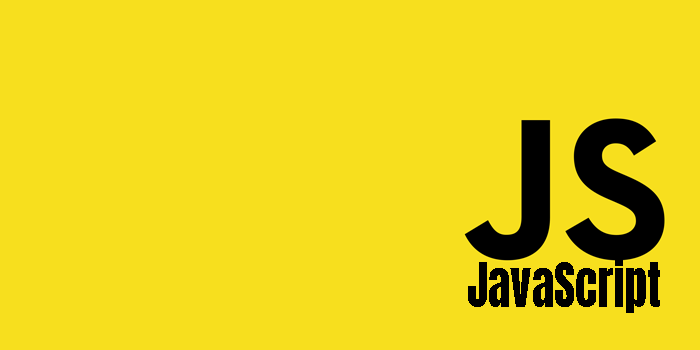
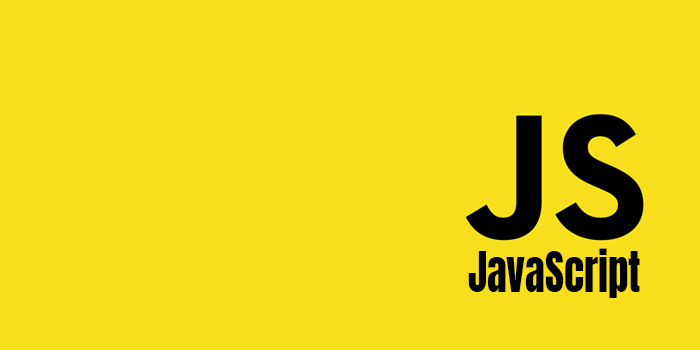
JS 썸네일 추가

Changed region(s): [[0.66, 0.3143, 0.96, 0.8857]]

diff --git a/_posts/JavaScript/2021-09-16-JavaScript02.md b/_posts/JavaScript/2021-09-16-JavaScript02.md
@@ -4,7 +4,7 @@ author: Jinsol
 categories: Javascript
 tags: JavaScript
 date: "2021-09-15"
-image: 
+image: /assets/img/JS.png
 ---
 
 <br>

diff --git a/_posts/JavaScript/2021-09-21-JavaScript03.md b/_posts/JavaScript/2021-09-21-JavaScript03.md
@@ -4,7 +4,7 @@ author: Jinsol
 categories: Javascript
 tags: JavaScript
 date: "2021-09-21"
-image: 
+image: /assets/img/JS.png
 ---
 
 <br>
